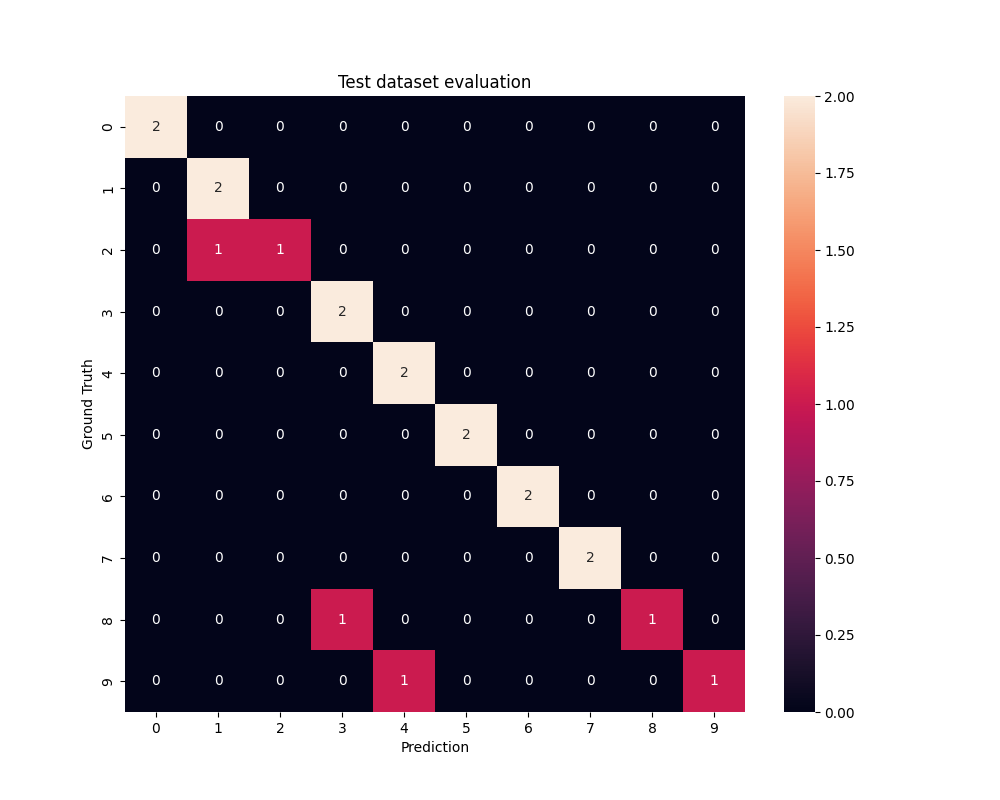
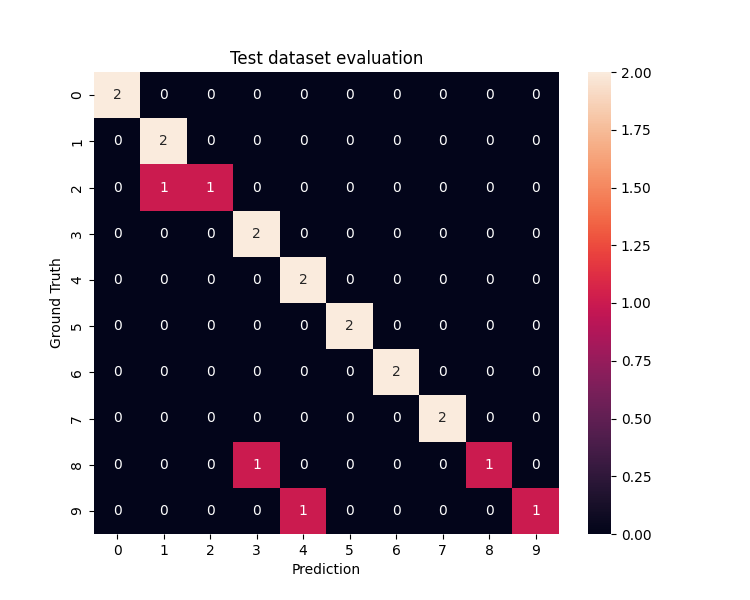
Update confusion matrix and test script

diff --git a/train/test.py b/train/test.py
@@ -21,8 +21,6 @@ if __name__ == "__main__":
     
     model.load_weights("./params.h5")
 
-    model.evaluate(data_x_test, data_y_category_test, verbose=2)
-
     predlist = []
     for x, y in zip(data_x_test, data_y_labelname_test):
         print(y)
@@ -33,7 +31,7 @@ if __name__ == "__main__":
     print(data_y_labelname_test)
     print(predlist)
     cmat = confusion_matrix(data_y_labelname_test, predlist)
-    plt.figure(figsize=(10,8))
+    plt.figure(figsize=(7.5,6))
     sns.heatmap(cmat, annot=True)
     plt.xlabel("Prediction")
     plt.ylabel("Ground Truth")
@@ -41,3 +39,5 @@ if __name__ == "__main__":
     plt.savefig("confusion_matrix.png")
     # plt.show()
     plt.close()
+
+    model.evaluate(data_x_test, data_y_category_test, verbose=2)
